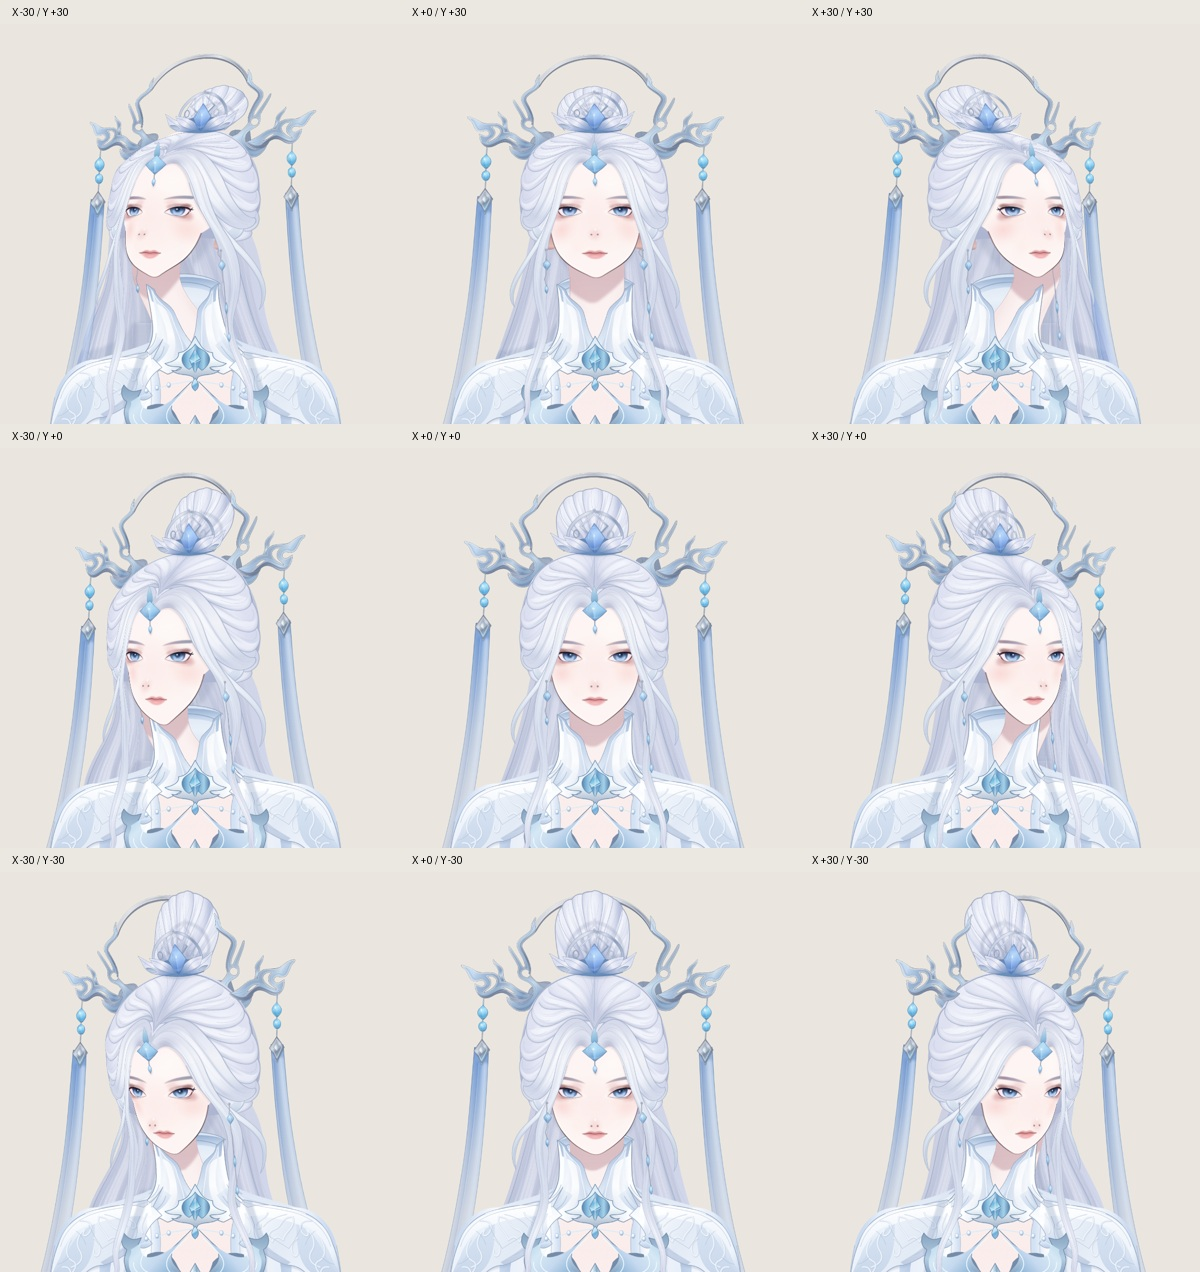
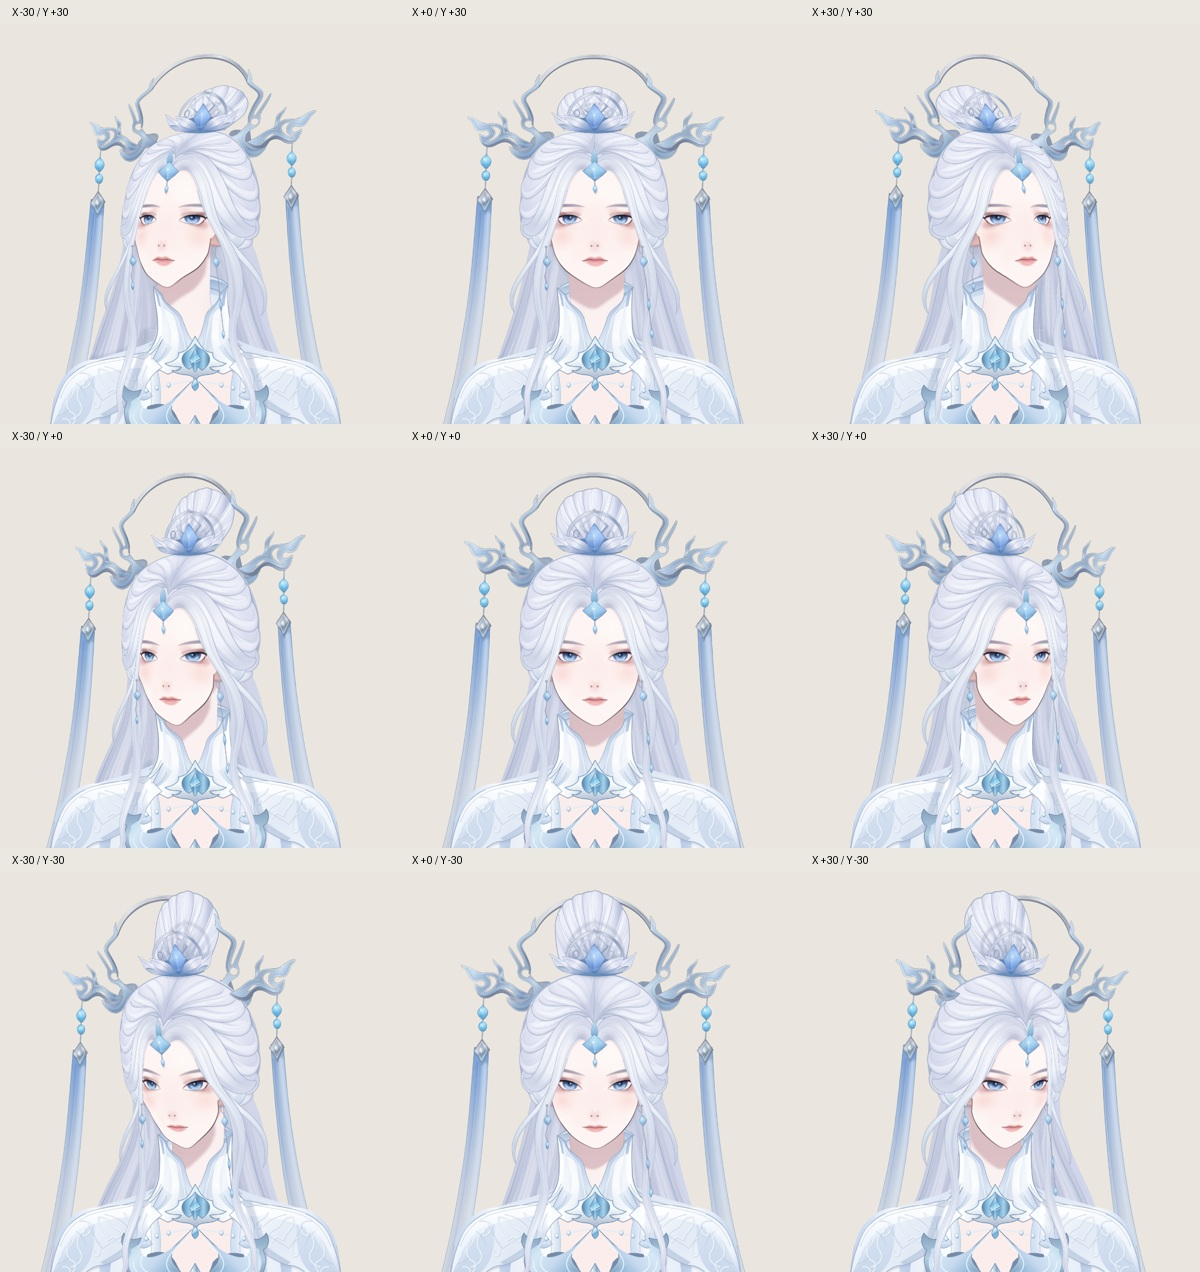
fix(rigging): attach neck at skull base and eliminate split facial meshes

diff --git a/rigging/jianma2d-head/README.md b/rigging/jianma2d-head/README.md
@@ -1,25 +1,25 @@
-# 剑妈穿戴稿：头部九宫格与连续跟随（v6）
+# 剑妈穿戴稿：头部九宫格与连续跟随（v7）
 
[1 lines of base64/hex data omitted]
 
-v5 的横行位移仍然让脸型接近正面，头饰的局部旋转中心又彼此独立，转头时会出现挤压、错位和类似凹凸镜的效果。v6 改成共同头部坐标中的深度与透视投影，并保留必要的轮廓关键形校正。
+v6 没有达到参考的侧转效果：颈柱错误继承下巴尖横移，五官平面与皮肤映射不同，各图层独立细分又带来实际插值误差。v7 针对这些连接问题重做；不把单张正面稿的深度投影称为与生成参考完全一致。
 
 ![当前九个关键形](nine-poses.jpg)
 
 ## 变形关系
 
-- `volume` 定义共同转动中心、镜头距离、左右转角与俯仰角。每个原图点先按自身深度反投影，再做同一次俯仰、转头与透视投影；正面姿态严格回到原坐标。
-- `volume.face` 以眉、眼、鼻、嘴、下巴等纵向位置定义正面与侧面深度。五官的局部切平面挂到脸部深度，鼻尖适当突出；眉眼保留原设计，避免把睫毛当成整脸曲线任意弯折。
-- `volume.scalp` 表达额前发量与头顶体积。近侧轮廓使用显式关键形修正保留颅部宽度，内部发缝仍随头部转向；前后发根使用同一父级，约束逐渐释放到发梢。
-- 发髻有自己的深度截面与俯仰高度校正，底部接到头皮。圆环与两侧连接头饰共享一个装配平面，发冠和额饰也用共同头部中心投影，不再各自绕锚点旋转。
-- 颈部上端跟随下颌，底端固定；领口开口部分跟随，缝合边固定。耳坠与长带从实际挂点垂下，保留有界阻尼惯性。
+- 头部仍使用共同转动中心与镜头，但深度按原脸宽收敛，避免鼻口大幅滑出颅部。正面严格回到原坐标。
+- 脸、五官、皮肤自身色与耳根使用同一个连续深度场。眼、鼻、嘴的切平面约束平滑融入该场，不能再各自成为独立移动的平面。
+- 所有图层共享源坐标采样格和三角形方向。`meshGeometry` 输出真实渲染数据；即使理想映射一致，也不能让各层不同的插值误差重新撕开边缘。
+- 脖子跟随位于下巴后方的颅底挂点，肩端固定，保留颈柱宽度。原有隐藏颈顶在转动时向头内延伸，保持下颌覆盖；没有改写原 SVG 或增宽可见脖子。
+- 耳根继承同一脸面；远侧耳朵按转角连续遮挡。前后发、发髻、头饰、长带及其惯性保留。
 
 `deformer.mjs` 将这些关系编译为九个完整关键形，运行时 GPU 做张量二次插值，Z 绕颈部挂点转动。它是原 SVG 坐标上的变形研究与预览缓存实现，不是 Cubism 运行时，也不声称导出了精确的 SVG 曲线或 `.cmo3`。
 
 ## 投影与衔接
 
 - 头发与额饰的原始投影路径从脸部缓存中分离，跟随投影来源的同一变形与惯性；接收面的裁剪交给实时变形后的脸/耳朵网格。
-- 原下巴投影从脖子缓存中分离，跟随脸部并裁剪在实时脖子网格内。脖子上端跟随下巴，下端固定到身体，衣领开口部分跟随而缝合边固定。
+- 原下巴投影先还原来源坐标，再变形并加回原画的光照偏移，最后裁剪在实时脖子网格内。不能把阴影像素的纵坐标误当成脸上对应点。衣领只小幅跟随颅底，缝合边固定。
 - `tools/prepare-artwork.mjs` 只操作显示克隆。保留原始投影几何、颜色、模糊和局部分区；撤掉烘焙的接收面裁剪，并记录到 `layers.json`。正式 SVG 保持原字节。
 - 嘴部重复肤色填充仍用原路径作为口腔遮罩；唇线、开口、局部颜色和阴影保留，肤色底面由脸层提供。
 - 48 张可重建 PNG 只作预览缓存；透明纹理采样前预乘 Alpha。鼠标移动不重新栅格化 SVG。
@@ -45,10 +45,10 @@ node rigging/jianma2d-head/tools/verify-browser.mjs http://localhost:8796/riggin
 
 缓存重建需要 Playwright/Chromium 与 Python Pillow；可通过 `ASTRA_PLAYWRIGHT`、`ASTRA_CHROMIUM` 指定工具路径。改曲面参数不需要重建纹理；改显示分层或遮挡准备时才重建。源 SVG 哈希不符时拒绝执行。
 
-v6 的 15 项几何/来源检查与 5 项惯性检查覆盖共同投影、脸部深度传递、近远眼宽、发髻/发冠连接、原图身份、固定边、发根、投影来源、四角不翻折及物理收敛。可见面采样最小面积比为 0.2556。画面另检查纯 X/Y 各九个连续位置、四角和隐藏头发后的脸型。测试通过不代表用户已经认可美术效果。
+v7 的 19 项几何/来源检查与 5 项惯性检查通过，包括实际渲染网格的重合、颅底/下巴独立位移、颈宽、来源坐标投影、远耳遮挡、原图身份、固定边、发根及物理收敛。采样最小面积比 0.2744。另逐张看纯 X/Y 的九个位置、四角、裸脸和快速反向移动。检查通过不代表用户认可美术效果。
 
 本轮使用 GPT-Image-2 基于原穿戴稿生成九宫格，检查转向、头发体积和俯仰关系。参考及前版对照可在[剑妈工作台](https://gameclaw.woa.com/ai-weapon-spirit/workbench/#/spirit-expressions/jianlai-jianma?view=head)查看；参考有细节漂移，仅作为视觉指导，不是替换帧或精确多视图。`nine-poses.jpg` 是本例真实渲染截图。
 
-48 张显示纹理与 GPU 插值渲染路径没有变化，但本轮未重新测量 Mac/Safari 帧率，不能将此前 v5 的 Chrome 60 fps 记录当作 v6 实测。仅有正面原画，鼻侧面、隐藏区域与遮挡仍是当前研究例的美术限制；没有用生成图覆盖原稿。
+48 张显示纹理不变，网格改为共同采样格，并增加远耳遮挡系数；没有逐帧重栅格化 SVG。本轮未重新测量 Mac/Safari 帧率，不能沿用旧版的 60 fps 记录。仅有正面原画，原鼻子仅有两个简化鼻点，侧鼻轮廓和隐藏侧面缺失仍是当前研究例的美术限制；没有用生成图覆盖原稿。
 
 这是头部九轴研究例；基础表情与头部仍为独立预览。状态不写入存档、不导出、不同步。
